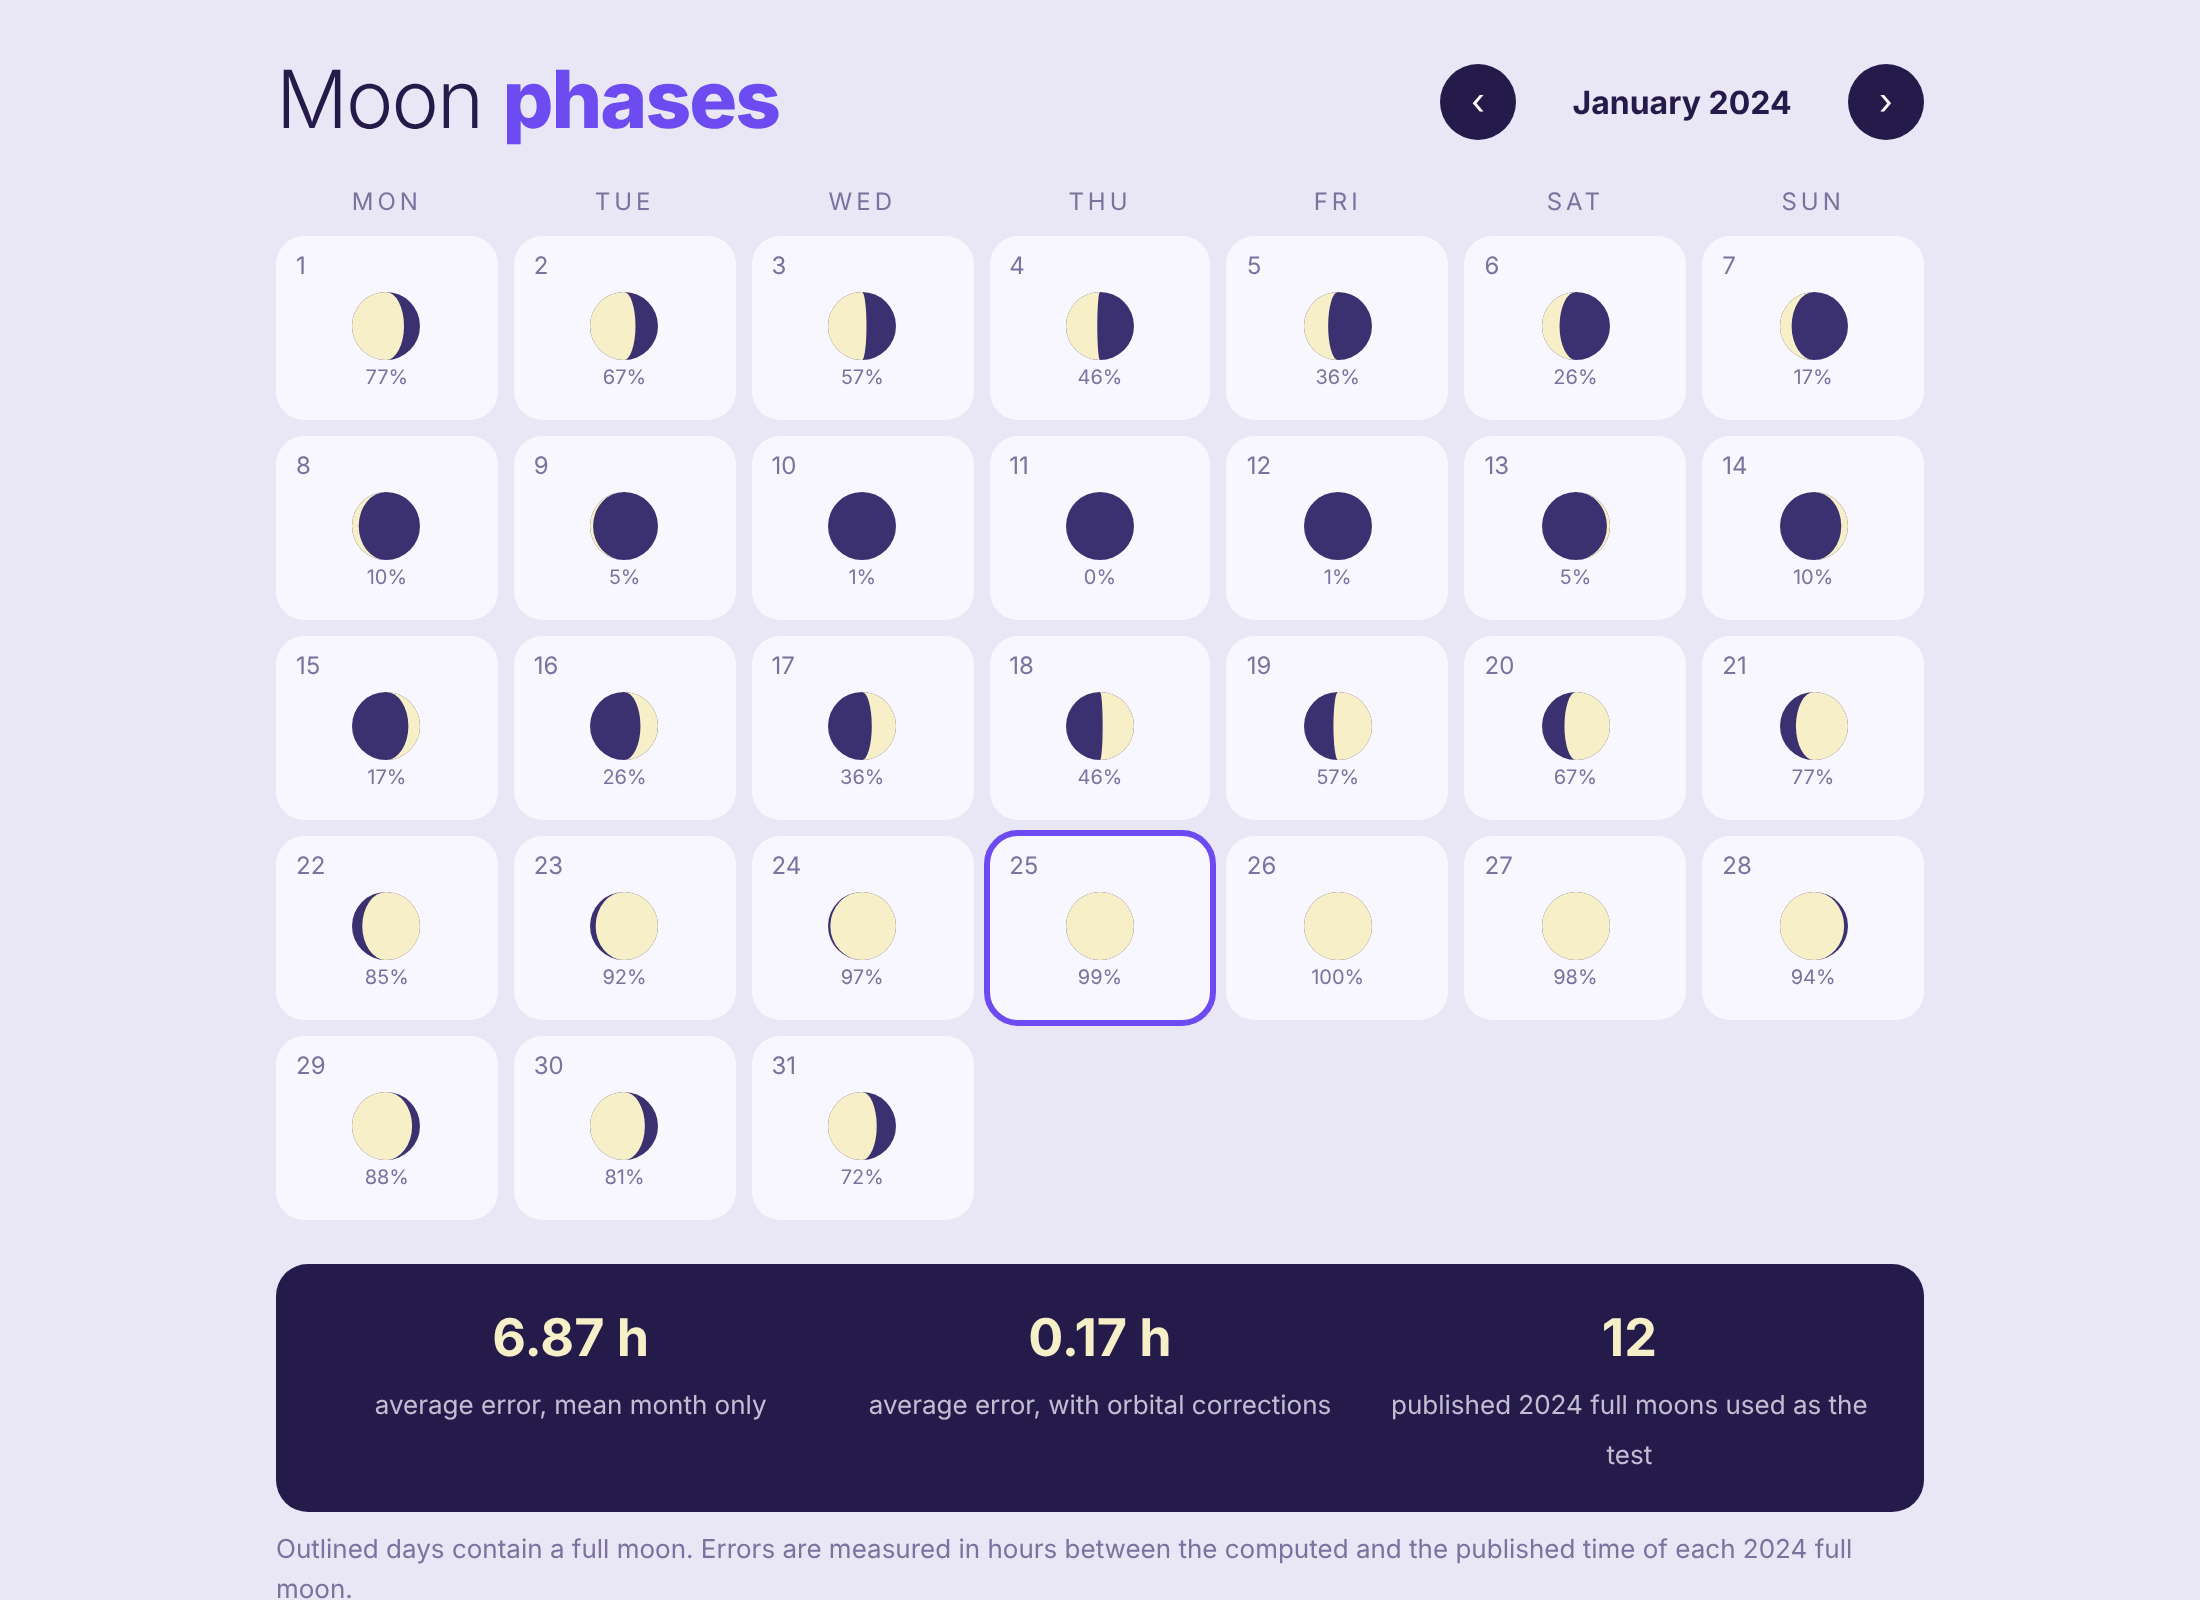
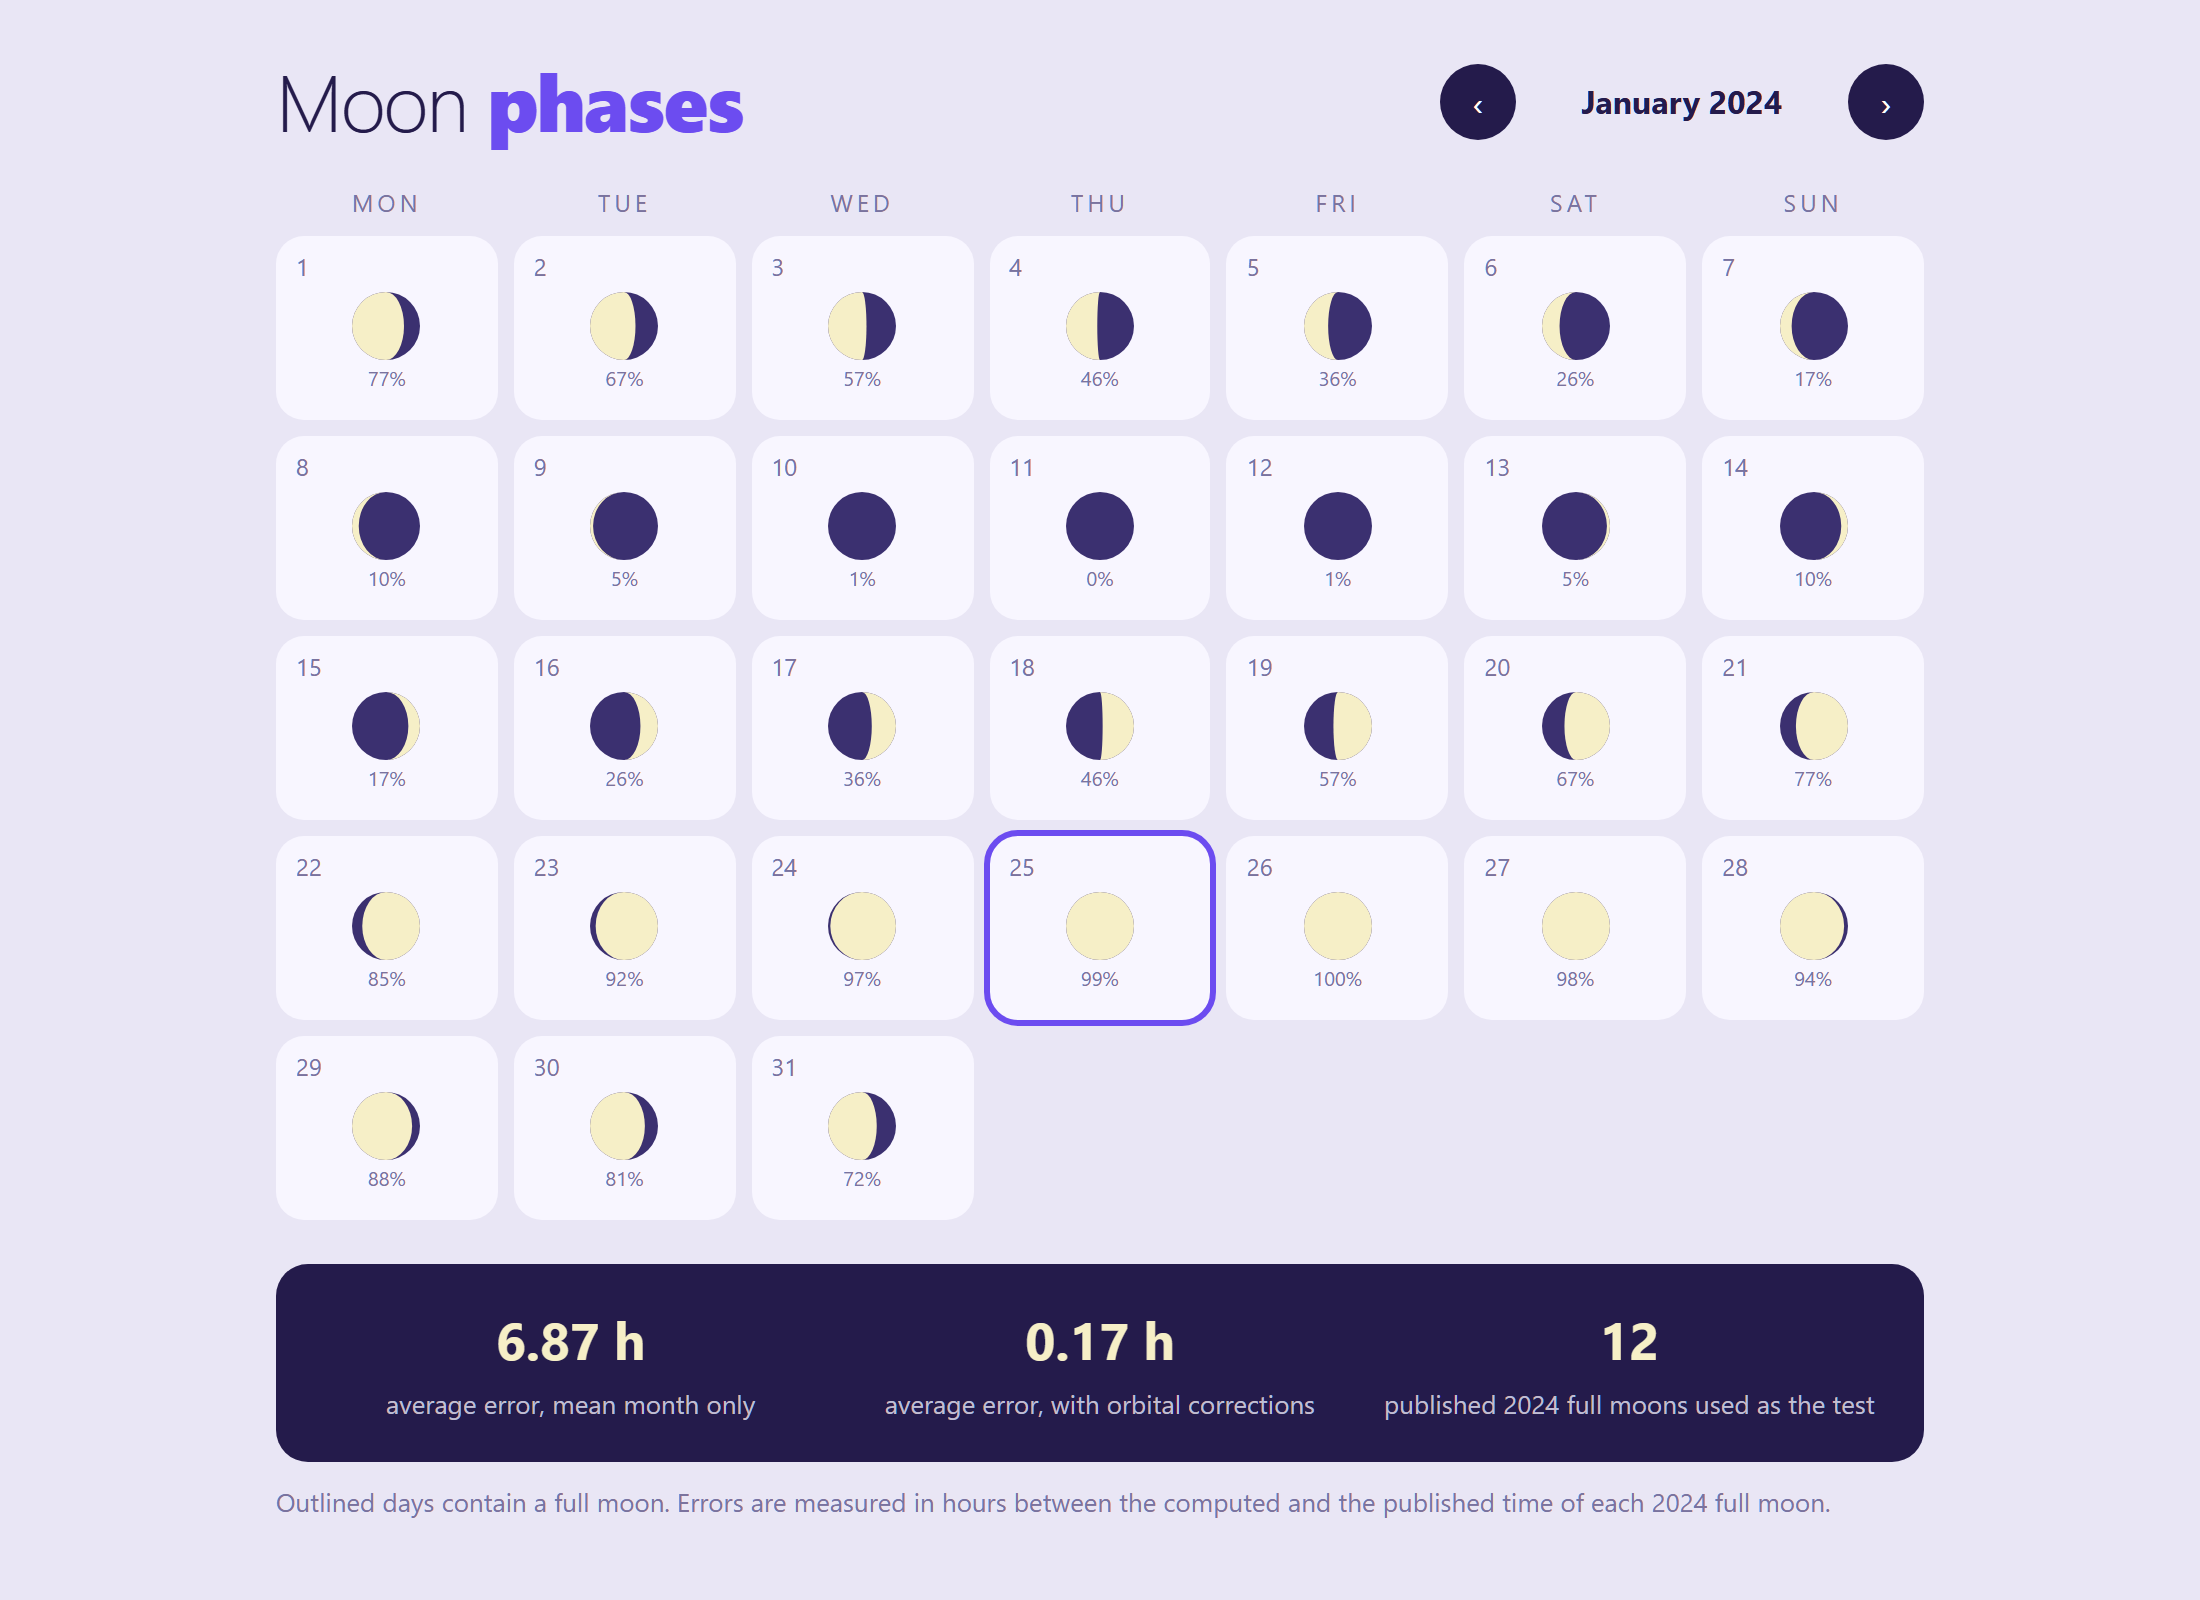
Improve moon-phase-calendar

diff --git a/projects/moon-phase-calendar/static/index.html b/projects/moon-phase-calendar/static/index.html
@@ -6,12 +6,13 @@
 main{max-width:860px;margin:0 auto;padding:30px 18px}
 .top{display:flex;justify-content:space-between;align-items:end;flex-wrap:wrap;gap:10px}h1{font:300 40px/1 "Avenir Next","Segoe UI",sans-serif;margin:0;letter-spacing:-1px}h1 b{font-weight:800;color:var(--ac)}
 .nav{display:flex;gap:8px;align-items:center}.nav button{font:inherit;border:0;background:var(--ink);color:#fff;border-radius:50%;width:38px;height:38px;cursor:pointer;font-size:18px}.nav span{min-width:150px;text-align:center;font-weight:700}
-.grid{display:grid;grid-template-columns:repeat(7,1fr);gap:8px;margin:22px 0}.dow{text-align:center;font-size:12px;letter-spacing:2px;color:var(--mut);text-transform:uppercase}
+.grid{display:grid;grid-template-columns:repeat(7,minmax(0,1fr));gap:8px;margin:22px 0}.dow{text-align:center;font-size:12px;letter-spacing:2px;color:var(--mut);text-transform:uppercase}
 .d{background:var(--card);border-radius:14px;padding:6px 4px 8px;text-align:center;min-height:92px;position:relative}.d .n{font-size:12px;color:var(--mut);text-align:left;padding-left:6px}.d svg{display:block;margin:2px auto}.d small{font-size:10px;color:var(--mut);display:block;line-height:1.1}
 .d.full{outline:3px solid var(--ac)}.d.empty{background:transparent}
 .acc{background:var(--ink);color:#e9e6f5;border-radius:16px;padding:18px 22px;display:grid;grid-template-columns:repeat(3,1fr);gap:14px;text-align:center}.acc b{display:block;font-size:26px;color:var(--moon)}.acc span{font-size:13px;opacity:.8}
 .note{font-size:13px;color:var(--mut);margin-top:10px}
 @media(max-width:620px){.d{min-height:70px}.d small{display:none}.acc{grid-template-columns:1fr}}
+@media (prefers-color-scheme: dark){body{background:#15161c;color:#eceef5}.acc>div,.d{background:#22242d}}
 </style></head><body><main>
 <div class="top"><h1>Moon <b>phases</b></h1><div class="nav"><button id="p">&lsaquo;</button><span id="ym"></span><button id="n">&rsaquo;</button></div></div>
 <div class="grid" id="g"></div>
@@ -22,13 +23,13 @@ function moon(f,waxing,r=17){const R=r,c=r+2,rx=Math.abs(1-2*f)*R,lit=waxing?1:0
 let path='';if(f<0.02)path='';else if(f>0.98)path=`M${c},${c-R} a${R},${R} 0 1,1 0,${2*R} a${R},${R} 0 1,1 0,${-2*R}`;
 else{const s1=waxing?1:0,gibbous=f>0.5;path=`M${c},${c-R} A${R},${R} 0 0,${s1} ${c},${c+R} A${rx},${R} 0 0,${gibbous?s1:1-s1} ${c},${c-R}`}
 return `<svg width="${2*r+4}" height="${2*r+4}"><circle cx="${c}" cy="${c}" r="${R}" fill="#3b3070"/><path d="${path}" fill="#f6efc7"/></svg>`}
-async function load(){const j=await (await fetch(`/month?year=${Y}&month=${M}`)).json();
+async function load(){try{const j=await (await fetch(`/month?year=${Y}&month=${M}`)).json();
 $('ym').textContent=new Date(Y,M-1,1).toLocaleString('en',{month:'long',year:'numeric'});
 const full=j.full_moons.map(s=>+s.slice(8,10));
 let h=['Mon','Tue','Wed','Thu','Fri','Sat','Sun'].map(x=>`<div class="dow">${x}</div>`).join('')+'<div class="d empty"></div>'.repeat(j.first_weekday);
-j.days.forEach(d=>{const waxing=d.age<14.77;h+=`<div class="d${full.includes(d.day)?' full':''}"><div class="n">${d.day}</div>${moon(d.illumination,waxing)}<small>${Math.round(d.illumination*100)}%</small></div>`});$('g').innerHTML=h}
+j.days.forEach(d=>{const waxing=d.age<14.77;h+=`<div class="d${full.includes(d.day)?' full':''}"><div class="n">${d.day}</div>${moon(d.illumination,waxing)}<small>${Math.round(d.illumination*100)}%</small></div>`});$('g').innerHTML=h}catch(e){$('note').textContent='Could not load the moon phases. Try again.'}}
 $('p').onclick=()=>{M--;if(M<1){M=12;Y--}load()};$('n').onclick=()=>{M++;if(M>12){M=1;Y++}load()};
 fetch('/accuracy').then(r=>r.json()).then(a=>{$('acc').innerHTML=`<div><b>${a.mean_only.mean_hours} h</b><span>average error, mean month only</span></div><div><b>${a.corrected.mean_hours} h</b><span>average error, with orbital corrections</span></div><div><b>${a.count}</b><span>published 2024 full moons used as the test</span></div>`;
-$('note').textContent='Outlined days contain a full moon. Errors are measured in hours between the computed and the published time of each 2024 full moon.'});
+$('note').textContent='Outlined days contain a full moon. Errors are measured in hours between the computed and the published time of each 2024 full moon.'}).catch(()=>{$('acc').textContent='Accuracy figures unavailable right now.'});
 load();
 </script></body></html>

diff --git a/projects/moon-phase-calendar/tests/test_all.py b/projects/moon-phase-calendar/tests/test_all.py
@@ -78,3 +78,9 @@ def test_api():
     a = c.get("/accuracy").json()
     assert a["corrected"]["worst_hours"] < 0.75 < a["mean_only"]["worst_hours"]
     assert c.get("/month", params={"month": 13}).status_code == 422 and c.get("/").status_code == 200
+
+
+def test_index_has_moon_error_texts_and_dark_scheme():
+    page = c.get("/").text
+    assert "Could not load the moon phases" in page and "Accuracy figures unavailable right now" in page
+    assert "prefers-color-scheme: dark" in page
